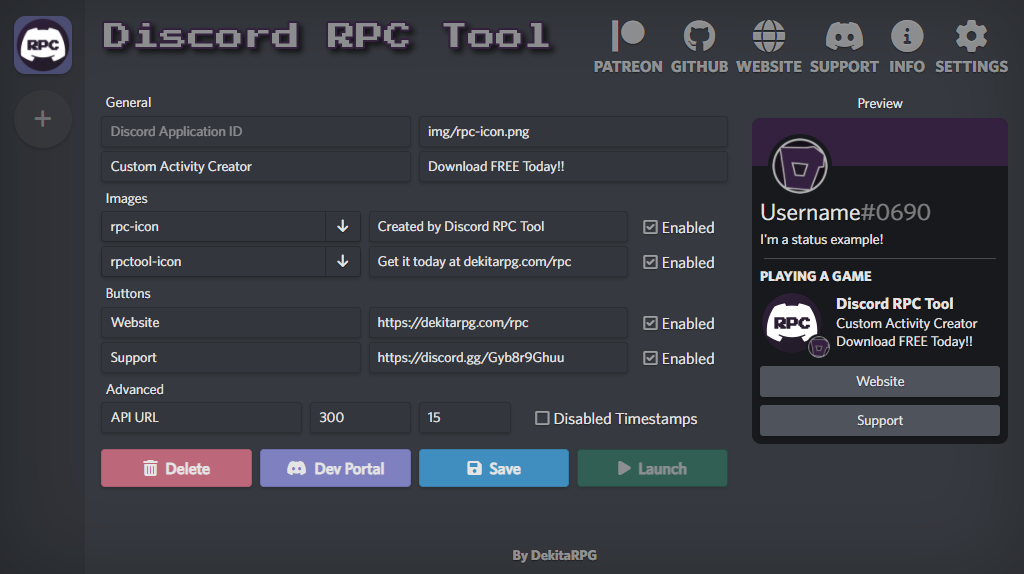
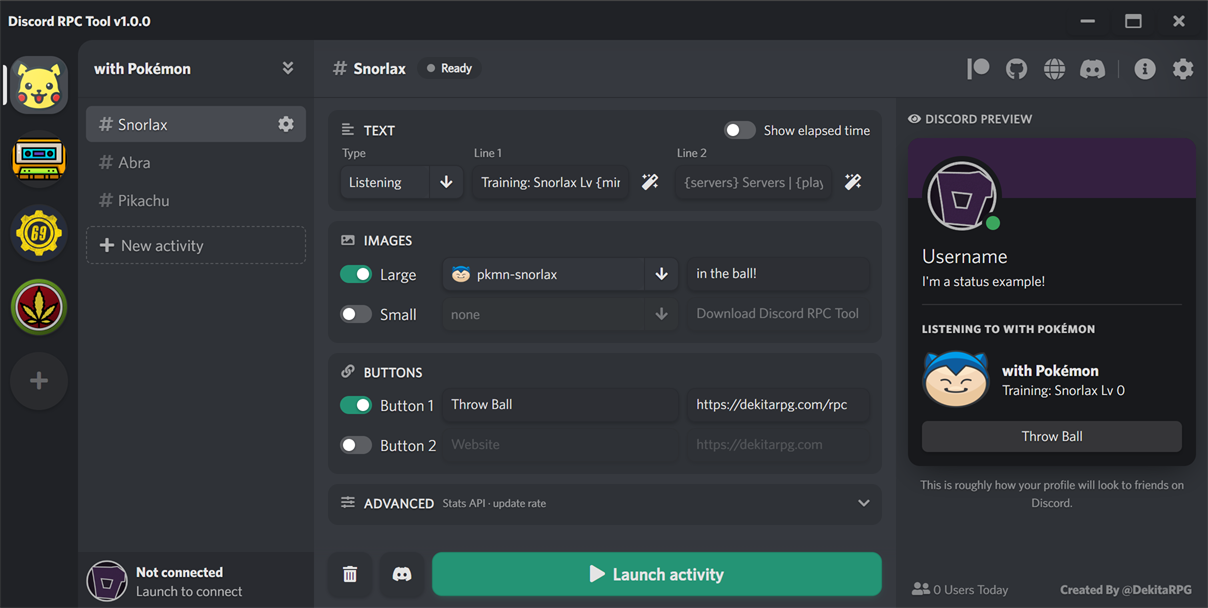
Update the readme and screenshots for v1.0.0
Documents the new interface, activity types, themes and what the
usage counter sends. Screenshots are retaken from the new build,
and images that nothing referenced are removed. The in-app guide
renders this readme, so the images live in src/img.

diff --git a/readme.md b/readme.md
@@ -3,7 +3,7 @@
 <div class="d-flex mb-2">
 <div class="mx-auto d-block">
     <img src="https://img.shields.io/github/downloads/Dekita/Discord-RPC-Tool/total?style=for-the-badge&logo=github" class="img-fluid img-thumbnail">
-    <a class="mx-2" href="https://discord.gg/7dCZ3Q4eU3" target="new">
+    <a class="mx-2" href="https://discord.gg/WyTdramBkm" target="new">
         <img src="https://img.shields.io/discord/956439276357308446?logo=discord&style=for-the-badge&logoColor=e4e4e4&label=Support%20Server" class="img-fluid img-thumbnail">
     </a>
     <img src="https://img.shields.io/github/stars/Dekita/Discord-RPC-Tool?style=for-the-badge&logo=apache%20spark&logoColor=e4e4e4" class="img-fluid img-thumbnail">
@@ -14,12 +14,15 @@
 - [How to install](#how-to-install) 
 - [What is Discord RPC Tool](#what-is-discord-rpc-tool) 
 - [RPC Tool Features](#rpc-tool-features) 
-- [Latest Changelog](#changelog-v0095) 
+- [Latest Changelog](#changelog-v100) 
 - [Launching your first activity](#launching-your-first-activity) 
 - [Main Activity Customization](#main-activity-customization) 
 - [Activity Image Customization](#activity-image-customization) 
 - [Activity Button Customization](#activity-button-customization) 
+- [Themes](#themes)
+- [Backing Up Your Activities](#backing-up-your-activities)
 - [Advanced Activity Text](#advanced-activity-text) 
+- [Privacy](#privacy)
 - [Important Notes](#important-notes) 
 
 <hr class="mt-1">
@@ -31,34 +34,78 @@ RPC Tool is a simple application that allows you to easily communicate with the 
 <hr class="mt-1">
 
 ### RPC Tool Features
-- Painless Installation
-- System Notifications
+- Painless Installation and Automatic Updates
 - Modern UI Inspired by Discord
+- Live Profile Preview
+- Multiple Applications, each with Unlimited Activities
+- Changes Saved Automatically
+- Export and Import Application Data
+- Automatic Reconnect if Discord Restarts
+- System Notifications
 - Multi Platform Support (win+linux)
-- Customizable Theme + Multiple Defaults 
+- 10 Themes, plus your own with the Color Customizer
 - API Polling for Advanced Activities
 - Optional Minimize to System Tray
 - Optional Auto Start Activity on Launch
 - Optional Auto Minimize App on Launch
 - Optional Auto Launch App on System Boot
-- Optional Activity Duration/Timer
-- Multiple Activity Profiles
+- Optional Activity Elapsed Time
 - Auto Detect App Name, Icon, Description, etc
-- Replace Activity Description with your; 
+- Replace Activity Text with your;
 time, date, region, timezone, playtime, and more...
 <hr class="mt-1">
 
-### Changelog (v0.0.96)
-- Switched renderer to es style modules 
-- Image keys now sorted alphabetically 
-- UI Redesign to be more like Discord
-- Applications and Activities are now split
-- Applications have unlimited Activity presets
-- Fixed bug with theme selector dropdown
-- Removed save button (data now autosaved)
-- Activity preview is now 'realtime' (upto 250ms delay)
-- App windows are now 'frameless' (with custom titlebar)
-- more...
+### Changelog (v1.0.0)
+Version 1.0 also includes the changes from v0.0.96, which was never released.
+
+###### New Look
+- Redesigned interface inspired by Discord, with a frameless window and custom titlebar
+- Activity editor grouped into Text, Images, Buttons and Advanced sections
+- Toggle switches replace checkboxes, switched off images and buttons fade out
+- Big `Launch activity` button that shows how long you have been live
+- Status pill next to the activity name: Ready, Connecting, Live on Discord
+- Preview now looks like a current Discord profile, and updates as you type
+- Image picker shows thumbnails of your application's art assets
+- App icons show their name on hover, and a green dot while live
+- Welcome guide on first launch, reopen it with the info button
+- New toast notifications that stack in the corner and close themselves
+- Smoother animations throughout
+
+###### Applications and Activities
+- Activity type: show Listening to, Watching or Competing in, instead of Playing
+- Applications and activities are now split, each application has unlimited activities
+- Activity menu (cog icon) to rename, duplicate or delete activities
+- Asks before switching activity while one is live
+- Export and import application data as a JSON file
+- Changes are saved automatically (save button removed)
+- Data now saved to a file in your app data folder, older data is moved over automatically
+- Image keys now sorted alphabetically
+
+###### Themes
+- Pick themes from color tiles in Settings
+- Themes renamed to describe how they look, your choice is carried over
+- Every theme reworked so text is easy to read, burnt-orange and nature4 removed
+- New color customizer: changes show on the app straight away, with a readability check
+- Custom themes now save every color, so they look the same whichever theme you start from
+
+###### Connection and Updates
+- Reconnects automatically if Discord restarts or the connection drops
+- Asks before restarting to install an update, otherwise installs when the app closes
+
+###### Fixes
+- Fixed the auto updater not reporting its progress
+- Fixed settings that are off or zero being reset to their defaults
+- Fixed the RPC update frequency setting being ignored
+- Fixed reloading the main window showing the help page
+- Fixed the theme selector dropdown
+- Support server link updated
+
+###### Under the Hood
+- Updated to Electron 45, with the renderer sandboxed and isolated for security
+- Discord connection moved to the main process
+- Renderer switched to ES style modules
+- Icons bundled with the app, so they show without an internet connection
+- Error log moved to the app's logs folder, and kept to a sensible size
 <hr class="mt-1">
 
 ### Changelog (v0.0.95)
@@ -107,8 +154,6 @@ time, date, region, timezone, playtime, and more...
 <hr class="mt-1">
 
 ### Coming Soon / TODO
-- Change logic to allow for 'real-time' preview
-- Configurable auto-save option
 - More awesome themes
 - ...
 <hr class="mt-1">
@@ -126,7 +171,7 @@ Discord RPC Tool is now installed on your pc.
 <hr class="mt-1">
 
 ### How to install (development)
-| :exclamation: Node.js is required for development |
+| :exclamation: Node.js (v22 or newer) and Yarn are required for development |
 |---|
 
 ```
@@ -136,16 +181,23 @@ git clone https://github.com/Dekita/Discord-RPC-Tool.git
 cd Discord-RPC-Tool
 ```
 ```
-npm i; npm start
+yarn install
+```
+```
+yarn start
 ```
 <hr class="mt-1">
 
 ### Launching your first activity
-Once the application is installed and running on your machine, click on the purple `Dev Portal` button. This will open the discord developer portal. Once logged into the dev portal, create a new application and name it whatever you want. This is the name that will be shown for your activity.
+The first time you open RPC Tool, a short welcome guide walks you through the three steps below. You can reopen it at any time with the info button in the top right.
 
-While on the `General Information` tab, after naming your application, copy the  `Application ID` and paste it into the `Discord Application ID` input field in RPC Tool's general configuration area.
+<img src="src/img/app-welcome.png" class="img-fluid img-thumbnail mt-2">
 
-After entering your unique app id, press the `Save`, then `Launch` buttons. After a second or so, your user profile card on Discord should now look similar to this:
+Once the application is installed and running on your machine, click on the `Discord` icon button next to `Launch activity`. This will open the discord developer portal. Once logged into the dev portal, create a new application and name it whatever you want. This is the name that will be shown for your activity.
+
+While on the `General Information` tab, after naming your application, copy the `Application ID`. In RPC Tool, click the `+` button below the application icons on the left, paste the id, then click `Add application`.
+
+Your changes are saved automatically. When you are ready, press `Launch activity`. After a second or so, your user profile card on Discord should now look similar to this:
 
 <img src="src/img/discord-profile-card.png" class="img-fluid img-thumbnail mt-2">
 
@@ -159,16 +211,16 @@ After entering your unique app id, press the `Save`, then `Launch` buttons. Afte
 Once you have launched your first activity, you are ready to begin properly customizing things. See the details below for each customizable option.
 <hr class="mt-1">
 
-###### Application ID 
-Should be set to your discord application id. You can get this from the Discord developer portal after you create your application.
+###### Application ID
+Each application icon on the left is one of your discord applications, added by its application id. You can get this from the Discord developer portal after you create your application. Each application can have as many activities as you like, listed next to the icons.
 <hr class="mt-1">
 
-###### Activity Image [default=`src/img/icon.png`]
-This used only for the RPC Tool application. The selected image is used only for the Activity icon within the application interface. 
+###### Activities
+Click the cog next to an activity to rename, duplicate, or delete it. Activities can be reordered by dragging them.
 <hr class="mt-1">
 
 ###### Activity Text: Line 1 + 2
-Text shown for the activity details and state (the first and second line of text shown below your app name on your profile card). 
+Text shown for the activity details and state (the first and second line of text shown below your app name on your profile card). The wand button next to each line fills it in from your application's description or summary on the developer portal. 
 <hr class="mt-1">
 
 ### Activity Image Customization
@@ -178,9 +230,11 @@ Each activity can display upto two images, one large and one small. But before R
 | :exclamation: Images may take a few minutes to show due to discords cache |
 |---|
 
-The image key that you enter on the developer portal should match the image key you select in the RPC Tool application. After adding new images on the dev portal, click the `refresh application data` button in the RPC tool (next to the app id input) to refresh refresh image datas. If they arent showing, wait a few minutes, and try again. If still not showing, refresh the developer portal to make sure discord has saved them properly.
+The image key that you enter on the developer portal should match the image key you select in the RPC Tool application. After adding new images on the dev portal, open the application menu (the arrows next to the application name) and click `Refresh from Discord` to reload the images. If they arent showing, wait a few minutes, and try again. If still not showing, refresh the developer portal to make sure discord has saved them properly.
 
-Make sure to also enable your image within the RPC Tool application. 
+Make sure to also switch your image on within the RPC Tool application. Hovering an image shows its hover text on Discord. 
+
+<img src="src/img/app-image-picker.png" class="img-fluid img-thumbnail mt-2">
 
 <hr class="mt-1">
 
@@ -202,15 +256,40 @@ Set this to a url that returns valid json data, then you can use the returned js
 <hr class="mt-1">
 
 ###### API Update Frequency [default=`300`]
-The frequency in seconds for how often the application should poll the `Custom API URL` for its json data.
+The frequency in seconds for how often the application should poll the `Custom API URL` for its json data. The minimum is `60`.
 <hr class="mt-1">
 
 ###### RPC Update Frequency [default=`15`]
-The frequency in seconds for how often the application should send data to the Discord Rich Presence Client.
+The frequency in seconds for how often the application should send data to the Discord Rich Presence Client. The minimum is `15`.
 <hr class="mt-1">
 
-###### Activity Timestamps
-Shows the duration that the current activity has been active.
+###### Activity Type
+Changes how the activity is introduced on your profile: `Playing`, `Listening`, `Watching` or `Competing`. Choose it with the `Type` dropdown in the Text section.
+
+<img src="src/img/app-activity-type.png" class="img-fluid img-thumbnail mt-2">
+<hr class="mt-1">
+
+###### Show Elapsed Time
+Shows how long the current activity has been active, eg: `12:47 elapsed`. Turn it on with the switch at the top of the Text section.
+<hr class="mt-1">
+
+### Themes
+Open `Settings` (the cog in the top right) and click a theme tile to switch themes.
+
+<img src="src/img/app-settings.png" class="img-fluid img-thumbnail mt-2">
+
+There are light and dark themes to choose from:
+
+<img src="src/img/app-theme-light.png" class="img-fluid img-thumbnail mt-2">
+<img src="src/img/app-theme-violet.png" class="img-fluid img-thumbnail mt-2">
+
+Click `Customize colors` to make your own: start from any theme, change its colors, and the app updates as you go. Press `Save as my theme` to keep it, or `Discard` to go back.
+
+<img src="src/img/app-theme-customizer.png" class="img-fluid img-thumbnail mt-2">
+<hr class="mt-1">
+
+### Backing Up Your Activities
+Your applications and activities are saved automatically. To back one up or share it, open the application menu (the arrows next to the application name) and click `Export App Data`. Use `Import App Data` to load it again.
 <hr class="mt-1">
 
 ### Advanced Activity Text
@@ -239,15 +318,26 @@ Additionally, there are a number of default replacers that you can use, without 
 `{timezone}` - your estimated timezone
 `{playtime}` - logical playtime text
 `{playtime-short}` - short playtime text
+`{minutes}` - whole minutes since launch
+`{minutes-float}` - minutes since launch, with decimals
 `{rpc-website}` - rpc website url
 `{rpc-support}` - rpc support server url
+<hr class="mt-1">
+
+### Privacy
+The `Users Today` counter in the bottom corner is powered by a small ping to dekitarpg.com. While the installed app is open, it sends the following when it starts, and again every few minutes:
+- a random ID created the first time the app runs (it is not linked to you or your Discord account)
+- your timezone
+- the app version
+
+Nothing about your applications, activities or Discord account is sent. The app also contacts Discord (application names, icons and art assets), GitHub (update checks), colormind.io (theme randomizer), and any Stats API URL you add to an activity.
 <hr class="mt-1">
 
 ### Important Notes
 | :exclamation: Your own activity buttons do not work for you, only other users! |
 |---|
 
-| :exclamation: Always save after making changes or they wont take effect! |
+| :exclamation: Your activity will not show if Discord's `Activity Status` setting is off, or you appear offline |
 |---|
 
 | :warning: Please report any bugs you find to the support server! |
